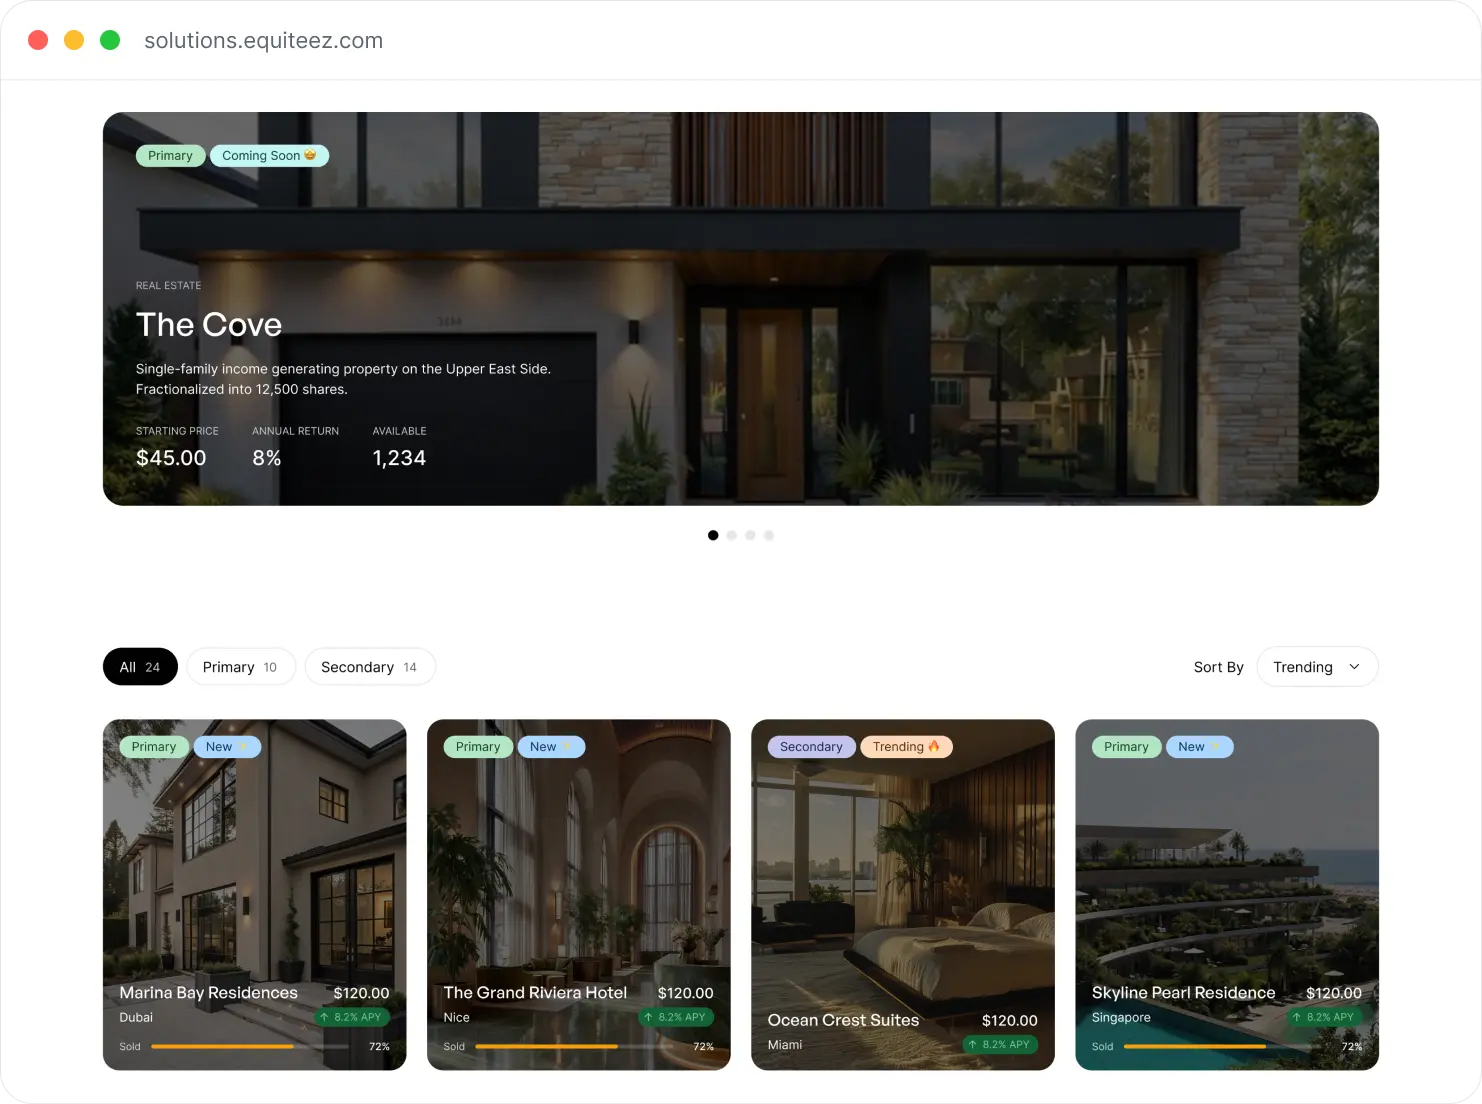
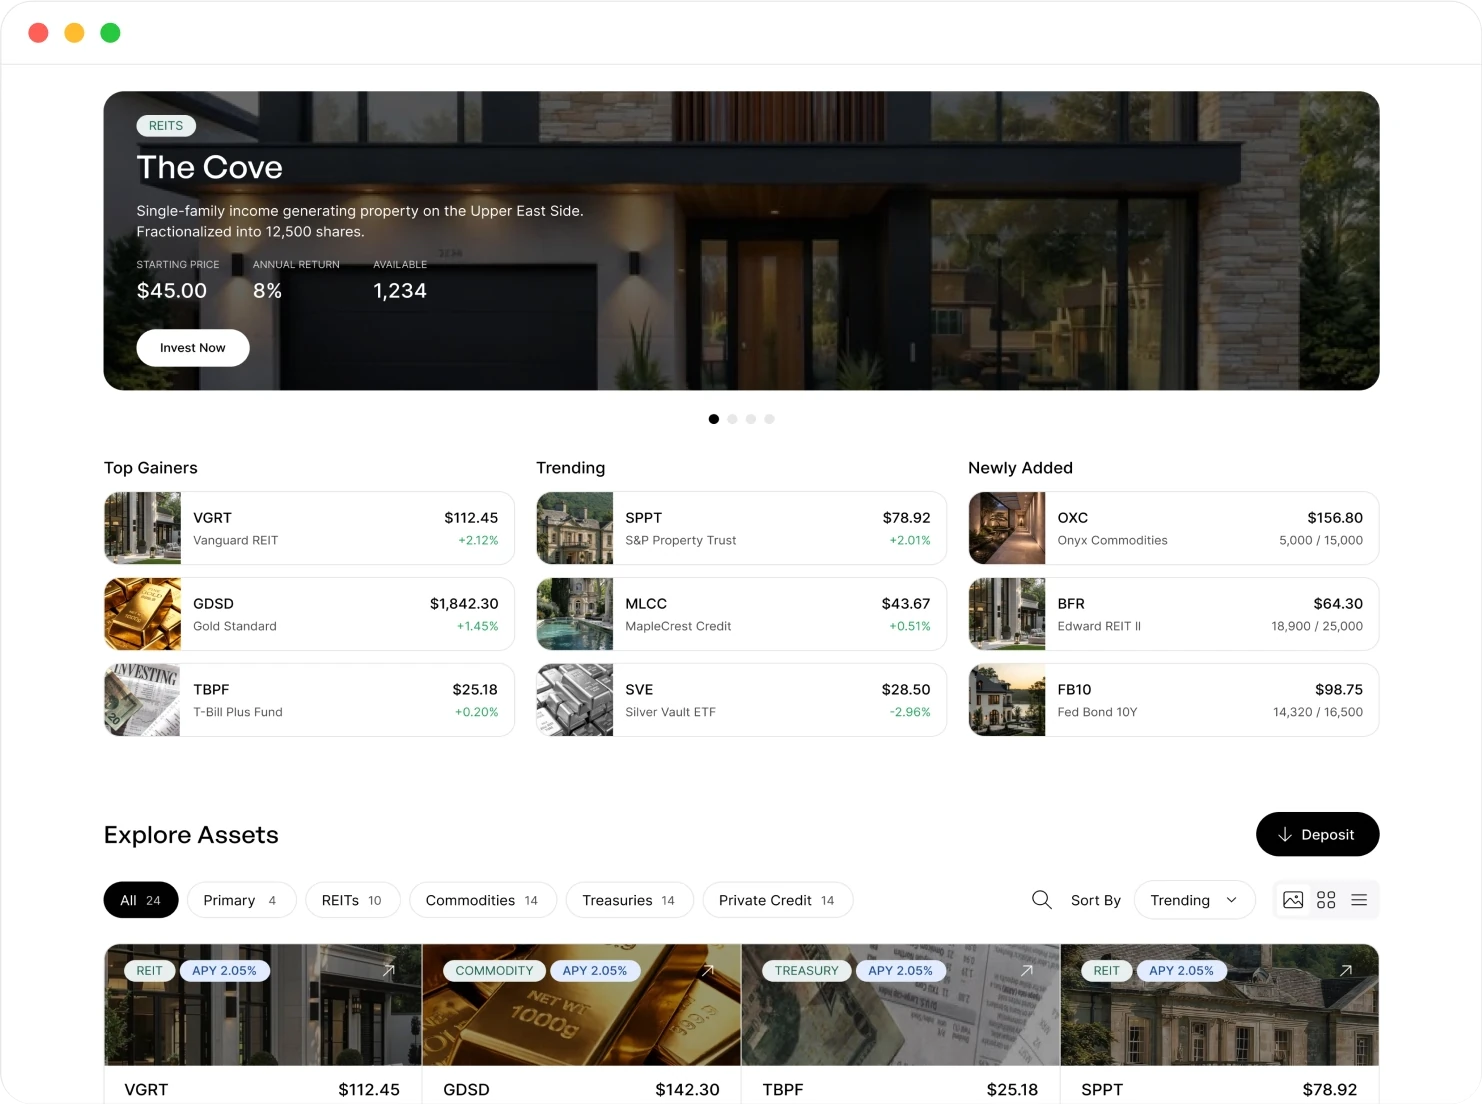
Marketing design updates
- Solutions: update "For Investors" hero image
- Landing: remove hover/click state and arrow icon from solution cards, size cards to content
- Reduce marketing CTA buttons to M size
- RButton: fixed heights per size so buttons with and without icons match (45px for M)
- Header: nav links and Docs to 14px, desktop Launch App button to S size

diff --git a/app/routes/_index/components/RLandingPage/RLandingPage.module.css b/app/routes/_index/components/RLandingPage/RLandingPage.module.css
@@ -349,13 +349,12 @@
 
 .solutionCard {
   display: flex;
-  min-height: 231px;
   flex-direction: column;
-  justify-content: space-between;
+  gap: 14px;
+  justify-content: flex-start;
   padding: var(--r-space-6);
   border-right: var(--r-border-width-sm) solid var(--r-color-neutral-100);
   border-bottom: var(--r-border-width-sm) solid var(--r-color-neutral-100);
-  cursor: pointer;
 }
 
 .solutionCard:nth-child(3n) {
@@ -405,18 +404,6 @@
   color: var(--r-color-neutral-600);
   font-size: var(--r-font-size-body-sm);
   line-height: var(--r-line-height-body-sm);
-}
-
-.solutionIconWrapper {
-  color: var(--r-color-neutral-400);
-}
-
-.solutionIcon {
-  transition: color var(--r-transition-duration-base) ease;
-}
-
-.solutionCard:hover .solutionIcon {
-  color: var(--r-color-accent-green-500);
 }
 
 .enterpriseInner,
@@ -801,13 +788,6 @@
     margin-top: var(--r-space-10);
   }
 
-  .heroActions > *,
-  .contactActions > * {
-    min-height: 45px;
-    padding-top: var(--r-space-3);
-    padding-bottom: var(--r-space-3);
-  }
-
   .heroActions > :first-child,
   .contactActions > :first-child {
     padding-right: var(--r-space-4);
@@ -888,12 +868,6 @@
     margin-top: var(--r-space-8);
   }
 
-  .solutionCard {
-    min-height: 155px;
-    gap: 14px;
-    justify-content: flex-start;
-    padding: var(--r-space-6);
-  }
 
   .solutionCard h3 {
     font-size: var(--r-font-size-heading-h7);
@@ -913,10 +887,6 @@
 
   .solutionCard:nth-last-child(-n + 2) {
     border-bottom: 0;
-  }
-
-  .solutionIcon {
-    display: none;
   }
 
   .enterpriseInner {

diff --git a/app/routes/_index/components/RLandingPage/RLandingPage.tsx b/app/routes/_index/components/RLandingPage/RLandingPage.tsx
@@ -531,6 +531,7 @@ function RLandingHero() {
           <RButton
             as="link"
             iconRight={<RIcon aria-hidden name="arrow-long-right" />}
+            size="medium"
             tone="white"
             to="/enquire"
           >
@@ -541,6 +542,7 @@ function RLandingHero() {
             href={EQUITEEZ_APP_URL}
             rel={EXTERNAL_LINK_REL}
             target={NEW_TAB_TARGET}
+            size="medium"
             tone="white"
             variant="secondary"
           >
@@ -618,14 +620,6 @@ function RPlatformSection() {
                 <h3>{card.title}</h3>
                 <p>{card.description}</p>
               </div>
-              <span className={styles.solutionIconWrapper}>
-                <RIcon
-                  aria-hidden
-                  className={styles.solutionIcon}
-                  name="arrow-long-up-right"
-                  size="medium"
-                />
-              </span>
             </Reveal>
           ))}
         </div>
@@ -814,6 +808,7 @@ function RGetInTouchSection() {
             iconRight={<RIcon aria-hidden name="arrow-long-right" />}
             rel={EXTERNAL_LINK_REL}
             target={NEW_TAB_TARGET}
+            size="medium"
             tone="black"
           >
             Get In Touch
@@ -824,6 +819,7 @@ function RGetInTouchSection() {
             href={EQUITEEZ_APP_URL}
             rel={EXTERNAL_LINK_REL}
             target={NEW_TAB_TARGET}
+            size="medium"
             tone="black"
             variant="secondary"
           >

diff --git a/app/templates/RMarketingCtaSection/RMarketingCtaSection.tsx b/app/templates/RMarketingCtaSection/RMarketingCtaSection.tsx
@@ -65,6 +65,7 @@ function RMarketingCtaButton({ action }: { action: RMarketingCtaAction }) {
         as="link"
         disabled={action.disabled}
         iconRight={iconRight}
+        size="medium"
         to={action.to}
         tone={action.tone ?? "black"}
         variant={action.variant ?? "primary"}
@@ -81,6 +82,7 @@ function RMarketingCtaButton({ action }: { action: RMarketingCtaAction }) {
       href={action.href}
       iconRight={iconRight}
       rel={action.rel}
+      size="medium"
       target={action.target}
       tone={action.tone ?? "black"}
       variant={action.variant ?? "primary"}

diff --git a/app/lib/atoms/RButton/RButton.module.css b/app/lib/atoms/RButton/RButton.module.css
@@ -34,22 +34,22 @@
 }
 
 .large {
-  min-height: 52px;
-  padding: 14px 32px;
+  height: 52px;
+  padding: 0 32px;
   font-size: var(--r-font-size-body-m);
   line-height: var(--r-line-height-body-m);
 }
 
 .medium {
-  min-height: 45px;
-  padding: 12px 24px;
+  height: 45px;
+  padding: 0 24px;
   font-size: var(--r-font-size-body-sm);
   line-height: var(--r-line-height-body-sm);
 }
 
 .small {
-  min-height: 38px;
-  padding: 10px 16px;
+  height: 38px;
+  padding: 0 16px;
   font-size: var(--r-font-size-body-s);
   line-height: var(--r-line-height-body-s);
 }

diff --git a/app/layouts/RHeader/RHeader.module.css b/app/layouts/RHeader/RHeader.module.css
@@ -112,6 +112,12 @@
   transition: opacity var(--r-motion-duration-fast) var(--r-motion-ease-premium);
 }
 
+.navLink,
+.docsLink {
+  font-size: var(--r-font-size-body-sm);
+  line-height: var(--r-line-height-body-sm);
+}
+
 .launchButton {
   transition:
     background-color var(--r-motion-duration-base) var(--r-motion-ease-premium),

diff --git a/app/routes/solutions/components/RSolutionsPage/RSolutionsPage.tsx b/app/routes/solutions/components/RSolutionsPage/RSolutionsPage.tsx
@@ -803,7 +803,7 @@ function RTradingVenueSection() {
             <RButton
               as="link"
               iconRight={<RIcon aria-hidden name="arrow-long-right" />}
-              size="large"
+              size="medium"
               to={linker("/")}
               target="_black"
               referrerPolicy="no-referrer"

diff --git a/app/layouts/RHeader/RHeader.tsx b/app/layouts/RHeader/RHeader.tsx
@@ -318,7 +318,7 @@ export function RHeader({
             className={styles.launchButton}
             disabled={isLaunchAppDisabled}
             launchAppTo={launchAppTo}
-            size="medium"
+            size="small"
             tone={launchButtonTone}
             variant={launchButtonVariant}
           />
